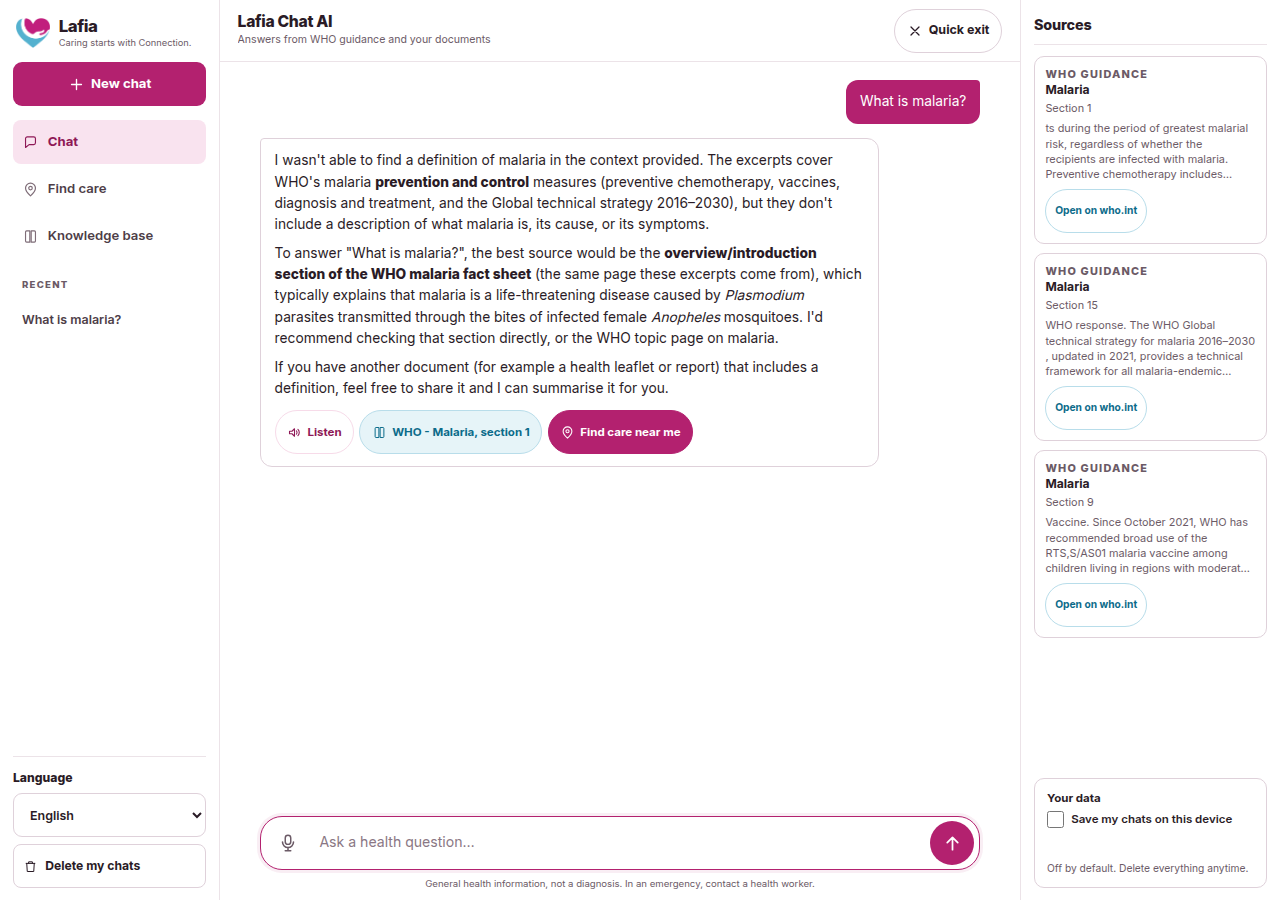
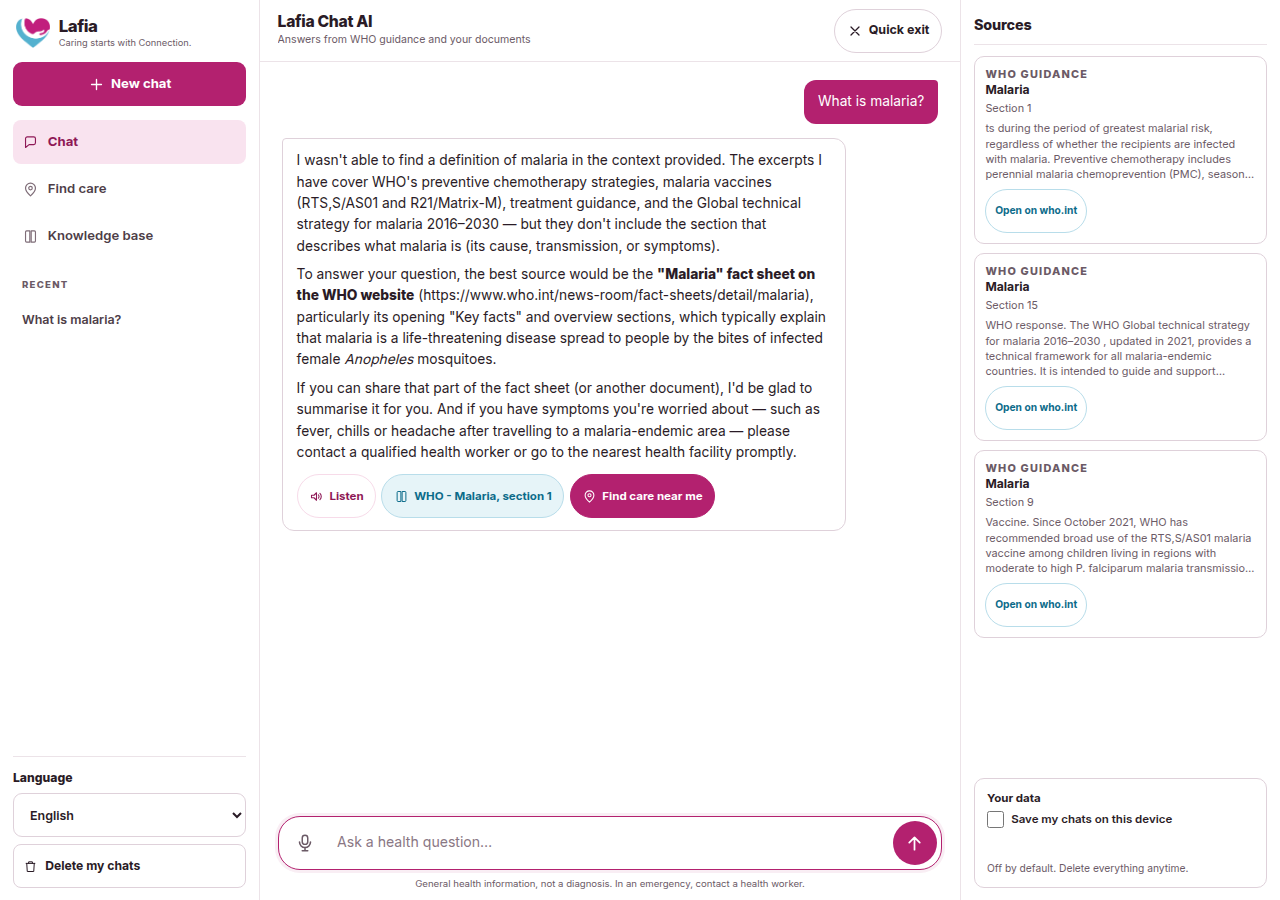
style: widen the sidebars and narrow the chat column

diff --git a/static/css/chat.css b/static/css/chat.css
@@ -458,8 +458,8 @@ h3 {
 
 /* sidebar */
 .sidebar {
-  width: 220px;
-  flex: 0 0 220px;
+  width: 260px;
+  flex: 0 0 260px;
   display: flex;
   flex-direction: column;
   padding: 16px 13px 12px;
@@ -1139,8 +1139,8 @@ h3 {
 
 /* right sources panel */
 .sources-panel {
-  width: 260px;
-  flex: 0 0 260px;
+  width: 320px;
+  flex: 0 0 320px;
   display: flex;
   flex-direction: column;
   min-height: 0;

diff --git a/templates/chat.html b/templates/chat.html
@@ -15,7 +15,7 @@
       href="https://fonts.googleapis.com/css2?family=Inter:wght@400;500;600;700;800&display=swap"
       rel="stylesheet"
     />
-    <link rel="stylesheet" href="/static/css/chat.css?v=20261109e" />
+    <link rel="stylesheet" href="/static/css/chat.css?v=20261109f" />
     <title>Lafia Chat AI</title>
   </head>
   <body>
